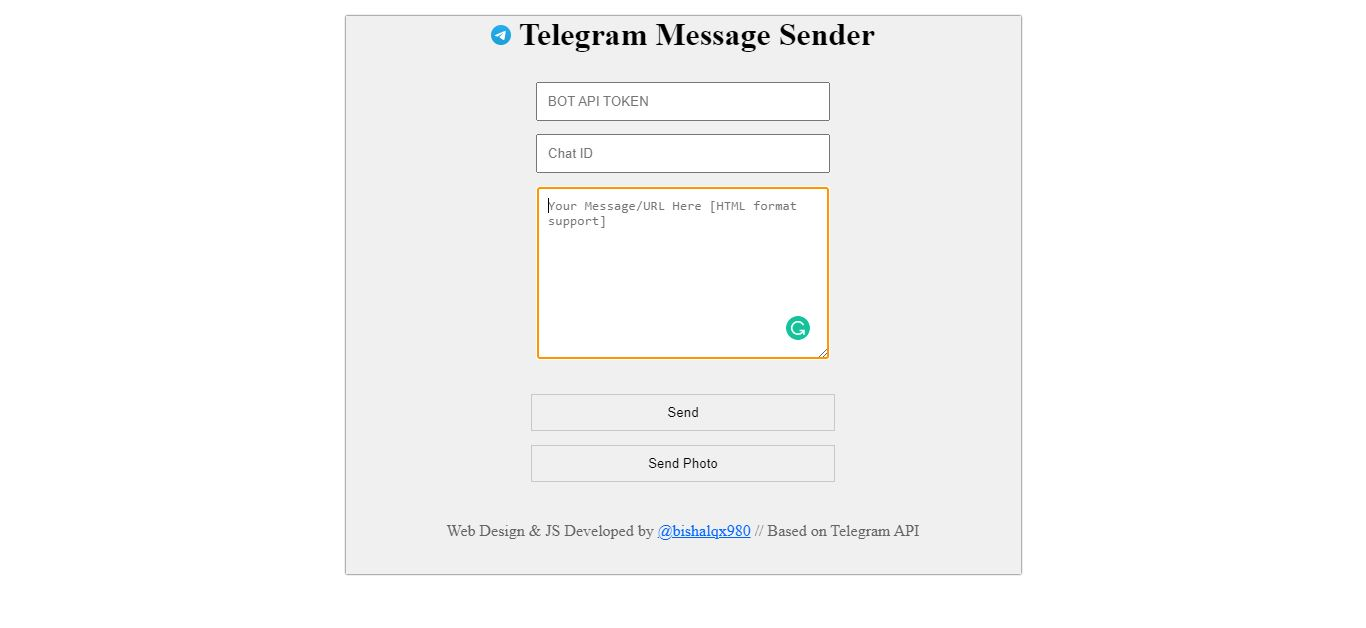
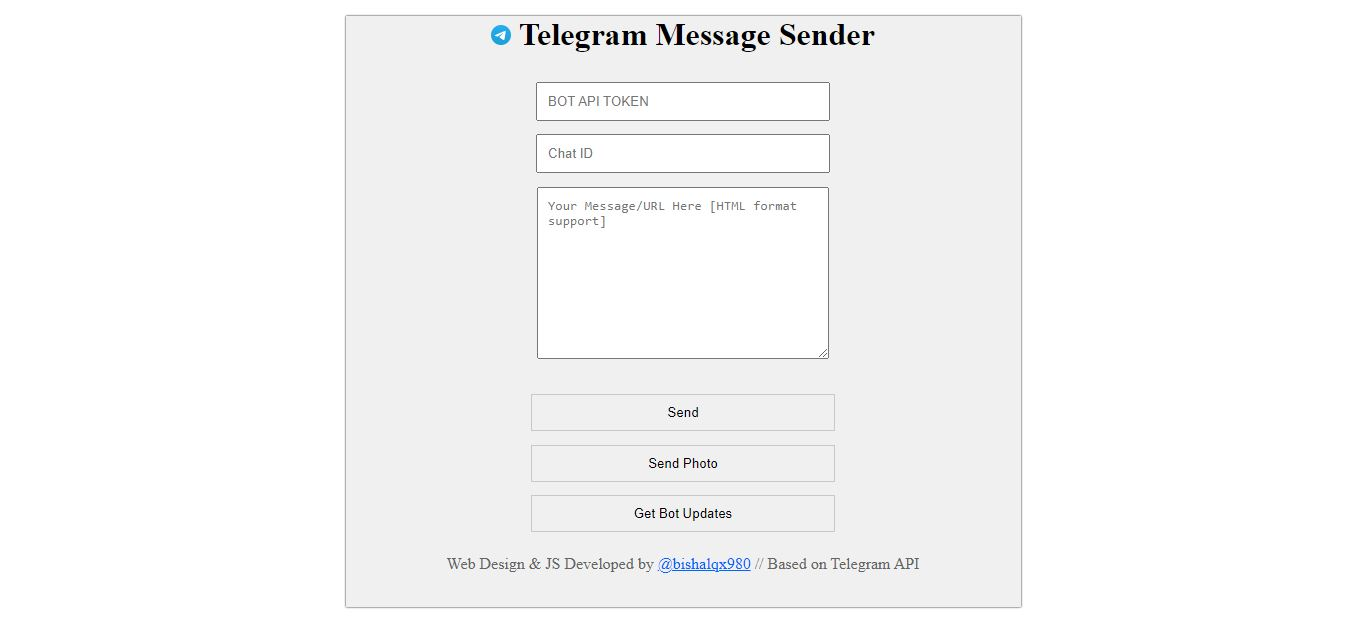
Some Update

diff --git a/index.html b/index.html
@@ -14,10 +14,14 @@
         <input type="text" class="common" name="" id="chatid" placeholder="Chat ID"><br>
         <textarea class="txt0" name="" id="message" cols="30" rows="10" maxlength="1000" placeholder="Your Message/URL Here [HTML format support]" autofocus></textarea><br><br>
         <button class="btn" onclick="load()">Send</button><br>
-        <button class="btn" onclick="loadimg()">Send Photo</button><br><br>
+        <button class="btn" onclick="loadimg()">Send Photo</button><br>
+        <button class="btn" onclick="showUpdate()">Get Bot Updates</button>
         <p style="color: rgb(100, 100, 100);">Web Design & JS Developed by <a href="http://github.com/bishalqx980" target="_blank" style="color: rgb(0, 100, 255);">@bishalqx980</a> // Based on Telegram API</p><br>
     </div>
-    
+
+    <textarea name="" id="getUpdates" cols="30" rows="10" class="log" readonly placeholder=""></textarea>
+
+
     <style>
         .div0 {
             text-align: center;
@@ -59,6 +63,15 @@
         }
         .btn:hover {
             border-color: rgb(0, 100, 255);
+        }
+        .log {
+            position: absolute;
+            top: 30px;
+            width: 20%;
+            height: 90%;
+            border: none;
+            resize: none;
+            outline: none;
         }
     </style>
 
@@ -105,6 +118,24 @@
                 }
                 else {
                     alert("Photo Sent Failed! ⚠\n\n" + "Error: " + api.response)
+                }
+            }
+        }
+        
+        function showUpdate() {
+            var token = document.getElementById("token").value;
+            var url = `https://api.telegram.org/bot${token}/getUpdates`;
+
+            let api = new XMLHttpRequest();
+            api.open("GET", url, true);
+            api.send();
+
+            api.onload = function() {
+                if (api.status == 200) {
+                    document.getElementById("getUpdates").innerHTML = api.response
+                }
+                else {
+                    alert("Get Updates Failed! ⚠\n\n" + "Error: " + api.response)
                 }
             }
         }
